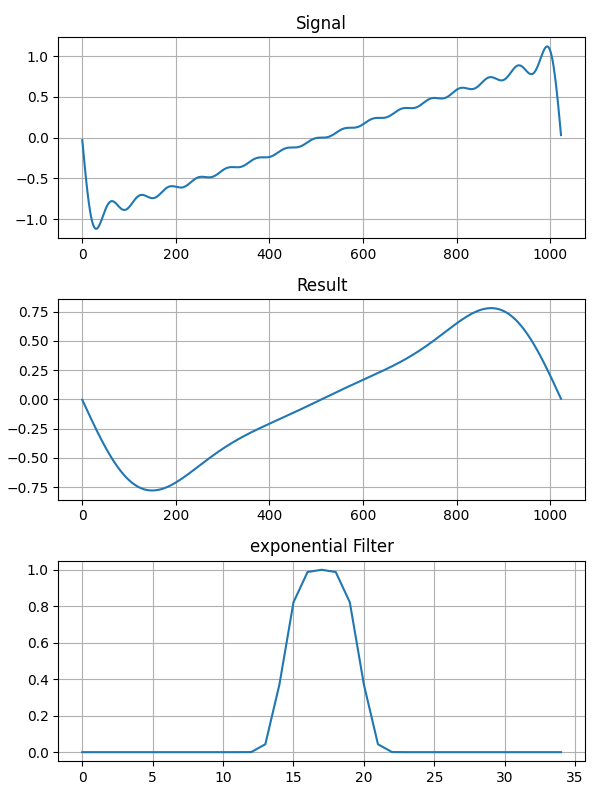
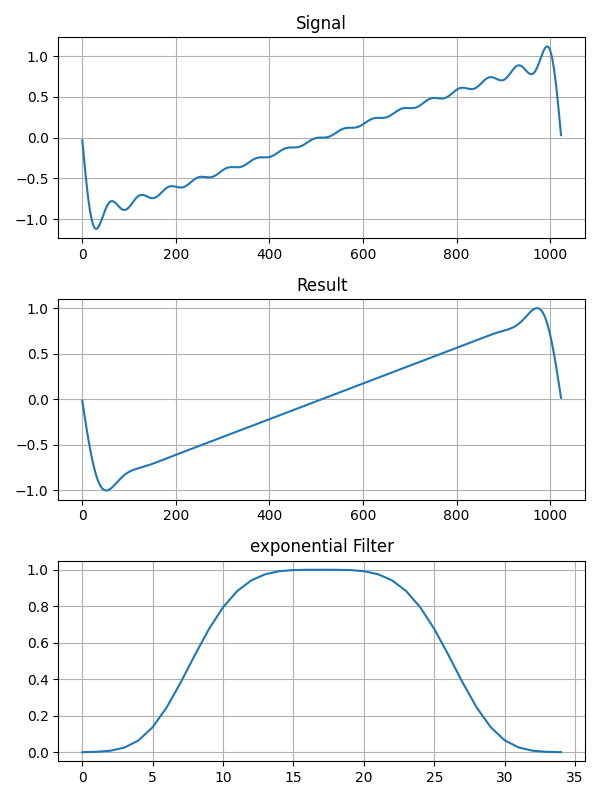
Change gibbs
- Change default value of `alpha` in `exponential`.
- Remove dependencies of Python 3 code.

diff --git a/gibbs/demo/gibbs.py b/gibbs/demo/gibbs.py
@@ -1,6 +1,5 @@
 import numpy
 import matplotlib.pyplot as pyplot
-from scipy.signal import *
 from scipy.special import eval_gegenbauer, gamma
 
 
@@ -73,7 +72,7 @@ def sharpendRaisedCosine(eta):
     return s**4 * (35 - 84 * s + 70 * s**2 - 20 * s**3)
 
 
-def exponential(eta, alpha=2**10, p=4):
+def exponential(eta, alpha=8, p=4):
     return numpy.exp(-alpha * eta**p)
 
 
@@ -166,13 +165,13 @@ def plotGottleibShuNoise(length, signalFunc, numSeries=16):
     pyplot.close()
 
 
-def gottliebShu(sig, N, gam=0.25):
+def gottliebShu(sig, N, L=0.25):
     """
     :param sig: numpy.array input signal.
     :param N: Number of spectral partial sum or number of overtone.
-    :param gam: Positive real constant.
+    :param L: Positive real constant.
     """
-    lam = gam * N  # N が大きいと eval_gegenbauerでオーバーフローする。
+    lam = L * N  # N が大きいと eval_gegenbauerでオーバーフローする。
 
     x = numpy.linspace(-1.0, 1.0, len(sig))
     k = numpy.arange(0, int(N / 2))
